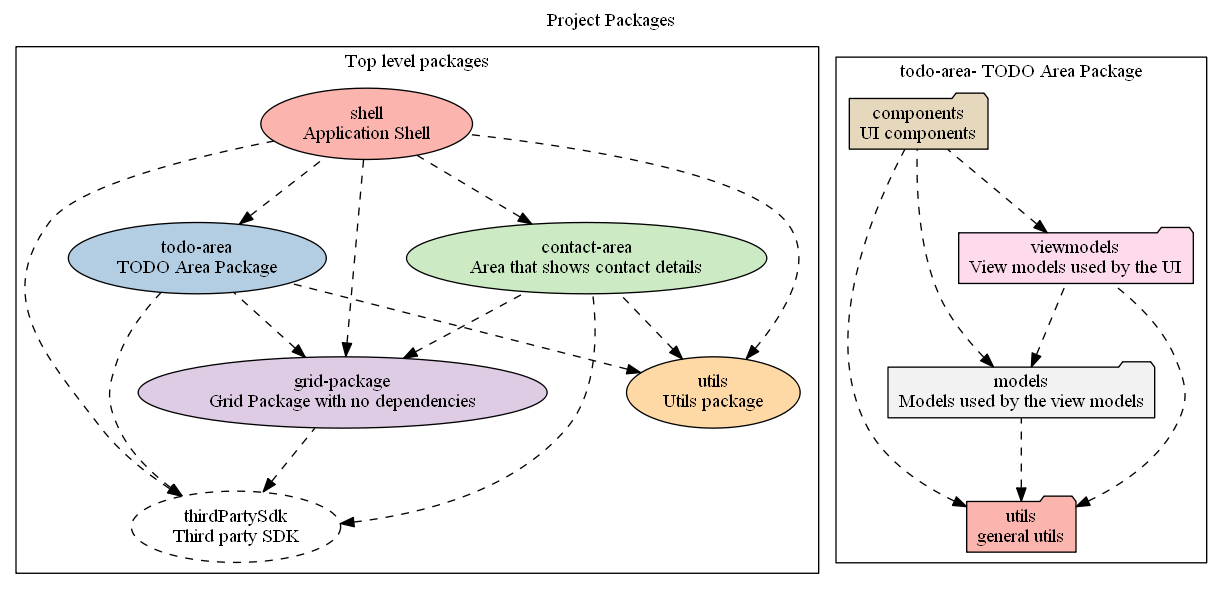
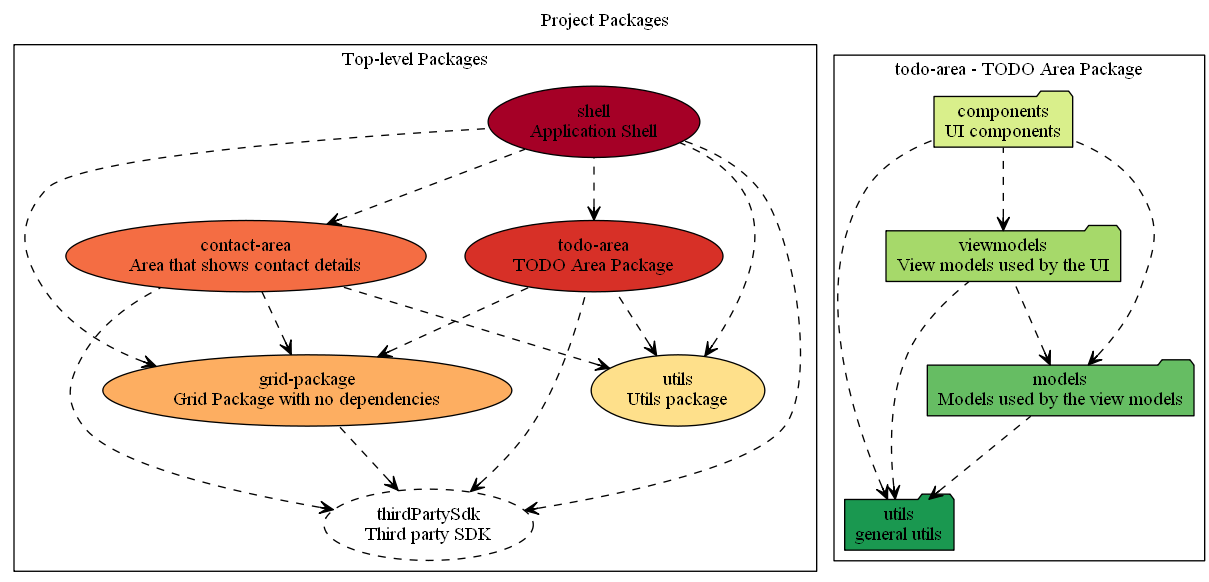
Fix styling of arrow heads in dot.

diff --git a/src/tools/docsGenerator/generators/dot/DotDocGenerator.ts b/src/tools/docsGenerator/generators/dot/DotDocGenerator.ts
@@ -276,7 +276,7 @@ export class DotDocGenerator extends DocGeneratorBase implements IDocGenerator {
       );
       // output reversed, to make top level packages appear at top:
       this.outputter.outputLine(
-        `${allowedPkgId}-> ${thisPkgId} [arrowhead="back", dir="back"]`
+        `${allowedPkgId}-> ${thisPkgId} [dir="back"]`
       );
     });
   }

diff --git a/src/tools/docsGenerator/generators/dot/utils/DotStyleGenerator.ts b/src/tools/docsGenerator/generators/dot/utils/DotStyleGenerator.ts
@@ -60,7 +60,8 @@ export class DotStyleGenerator {
     this.outputter.outputLines([
       `]`,
       ``,
-      `edge [arrowhead=vee, style=dashed, color="black"]`
+      // setting both head, tail as normally only one will apply
+      `edge [arrowhead="vee", arrowtail="vee", style=dashed, color="black"]`
     ]);
   }
 }

diff --git a/readme.generating-diagram-images.md b/readme.generating-diagram-images.md
@@ -1,6 +1,6 @@
 # generating diagrams of the architecture described in tslint.json
 
-The configuration of `tslint-folders` is a description of the architecture of your TypeScript project (see [tslint.tslint-folders.json](tslint.tslint-folders.json)` for an example).
+The configuration of `tslint-folders` is a description of the architecture of your TypeScript project (see [tslint.tslint-folders.json](tslint.tslint-folders.json) for an example).
 
 `tslint-folders` can generate dot files from its configuration. A dot file is a simple format to describe a graph of nodes.
 
@@ -8,7 +8,7 @@ If you install `graphviz`, then you can generate image diagrams from those dot f
 
 So, you can automatically generate architecture diagrams from the same configuration that `tslint-folders` uses to validate the source code.
 
-![example diagram](https://bitbucket.org/str/tslint-folders/raw/d91fc49/static/images/example_diagram_from_Dot_output.png)
+![example diagram](https://bitbucket.org/str/tslint-folders/raw/24ce1a45119749534e1e757815ffb936c60203c2/static/images/example_diagram_from_Dot_output.png)
 
 ---
 

diff --git a/README.md b/README.md
@@ -199,7 +199,7 @@ The test data 'todo-area' package is configured with fairly typical sub-folders 
 
 A diagram can be automatically generated from the same config used to validated the code:
 
-![example diagram](https://bitbucket.org/str/tslint-folders/raw/d91fc49/static/images/example_diagram_from_Dot_output.png)
+![example diagram](https://bitbucket.org/str/tslint-folders/raw/24ce1a45119749534e1e757815ffb936c60203c2/static/images/example_diagram_from_Dot_output.png)
 
 see [generating diagrams](./readme.generating-diagram-images.md) for details.
 
